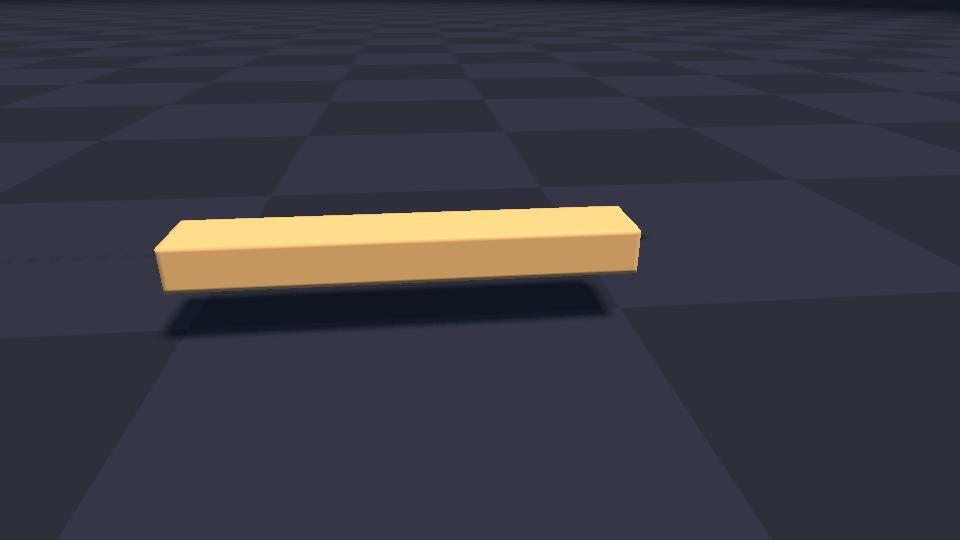
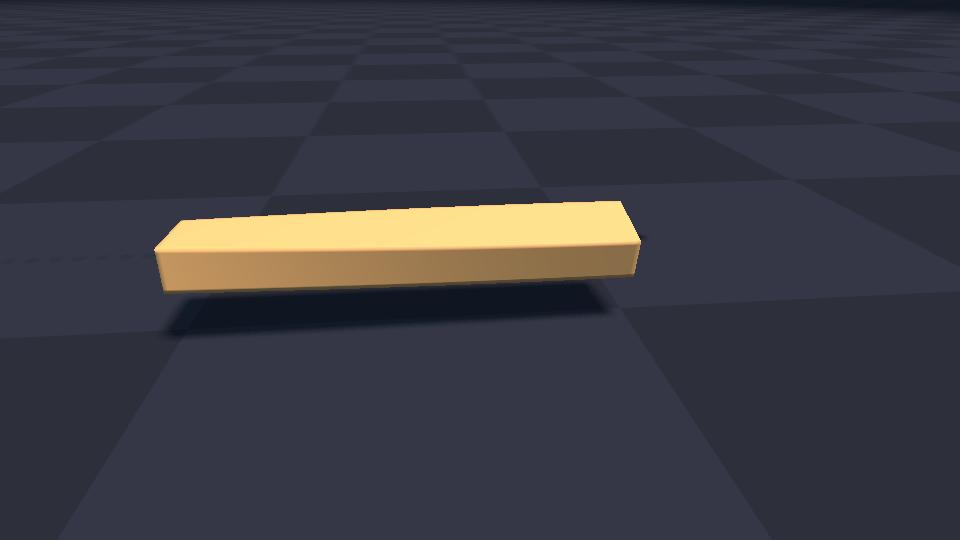
Lower torsion example damping
Reduce the finite torsion fixture damping so the released shaft visibly oscillates. Keep the radial finite-rotation correction in phase with the twist coordinate using q_twist squared, which preserves the volume bound while allowing underdamped motion in the example and report video.

Changed region(s): [[0.2188, 0.3556, 0.6875, 0.563]]

diff --git a/newton/examples/basic/example_basic_reduced_elastic_torsion.py b/newton/examples/basic/example_basic_reduced_elastic_torsion.py
@@ -92,7 +92,7 @@ class Example:
         base_stiffness = float(linear_basis.mode_stiffness[0] * tip_twist_scale)
         mode_mass = np.array([base_mass, base_mass], dtype=np.float32)
         mode_stiffness = np.array([base_stiffness, 4.0 * base_stiffness], dtype=np.float32)
-        damping_ratio = 0.75
+        damping_ratio = 0.05
         mode_damping = np.array(
             [2.0 * damping_ratio * math.sqrt(float(mode_mass[i]) * float(mode_stiffness[i])) for i in range(2)],
             dtype=np.float32,
@@ -151,6 +151,7 @@ class Example:
         self.elastic_q_start = int(self.model.joint_q_start.numpy()[self.elastic_joint])
         self.elastic_qd_start = int(self.model.joint_qd_start.numpy()[self.elastic_joint])
         self._joint_f = self.control.joint_f.numpy()
+        self._sync_radial_mode()
         self.initial_volume_ratio = elastic_shape_volume_ratio(self.model, self.state_0)
         self.max_volume_ratio_error = abs(self.initial_volume_ratio - 1.0)
 
@@ -169,6 +170,16 @@ class Example:
     def _mode_value(self) -> float:
         return float(self.state_0.joint_q.numpy()[self.elastic_q_start + 7])
 
+    def _sync_radial_mode(self):
+        joint_q = self.state_0.joint_q.numpy()
+        joint_qd = self.state_0.joint_qd.numpy()
+        twist = float(joint_q[self.elastic_q_start + 7])
+        twist_rate = float(joint_qd[self.elastic_qd_start + 6])
+        joint_q[self.elastic_q_start + 8] = twist * twist
+        joint_qd[self.elastic_qd_start + 7] = 2.0 * twist * twist_rate
+        self.state_0.joint_q.assign(joint_q)
+        self.state_0.joint_qd.assign(joint_qd)
+
     def _update_volume_metric(self):
         ratio = elastic_shape_volume_ratio(self.model, self.state_0)
         self.max_volume_ratio_error = max(self.max_volume_ratio_error, abs(ratio - 1.0))
@@ -182,6 +193,7 @@ class Example:
                 self.control.joint_f.assign(self._joint_f)
                 self.solver.step(self.state_0, self.state_1, self.control, self.contacts, self.sim_dt)
                 self.state_0, self.state_1 = self.state_1, self.state_0
+                self._sync_radial_mode()
 
         self.sim_time += self.frame_dt
         self.step_count += 1